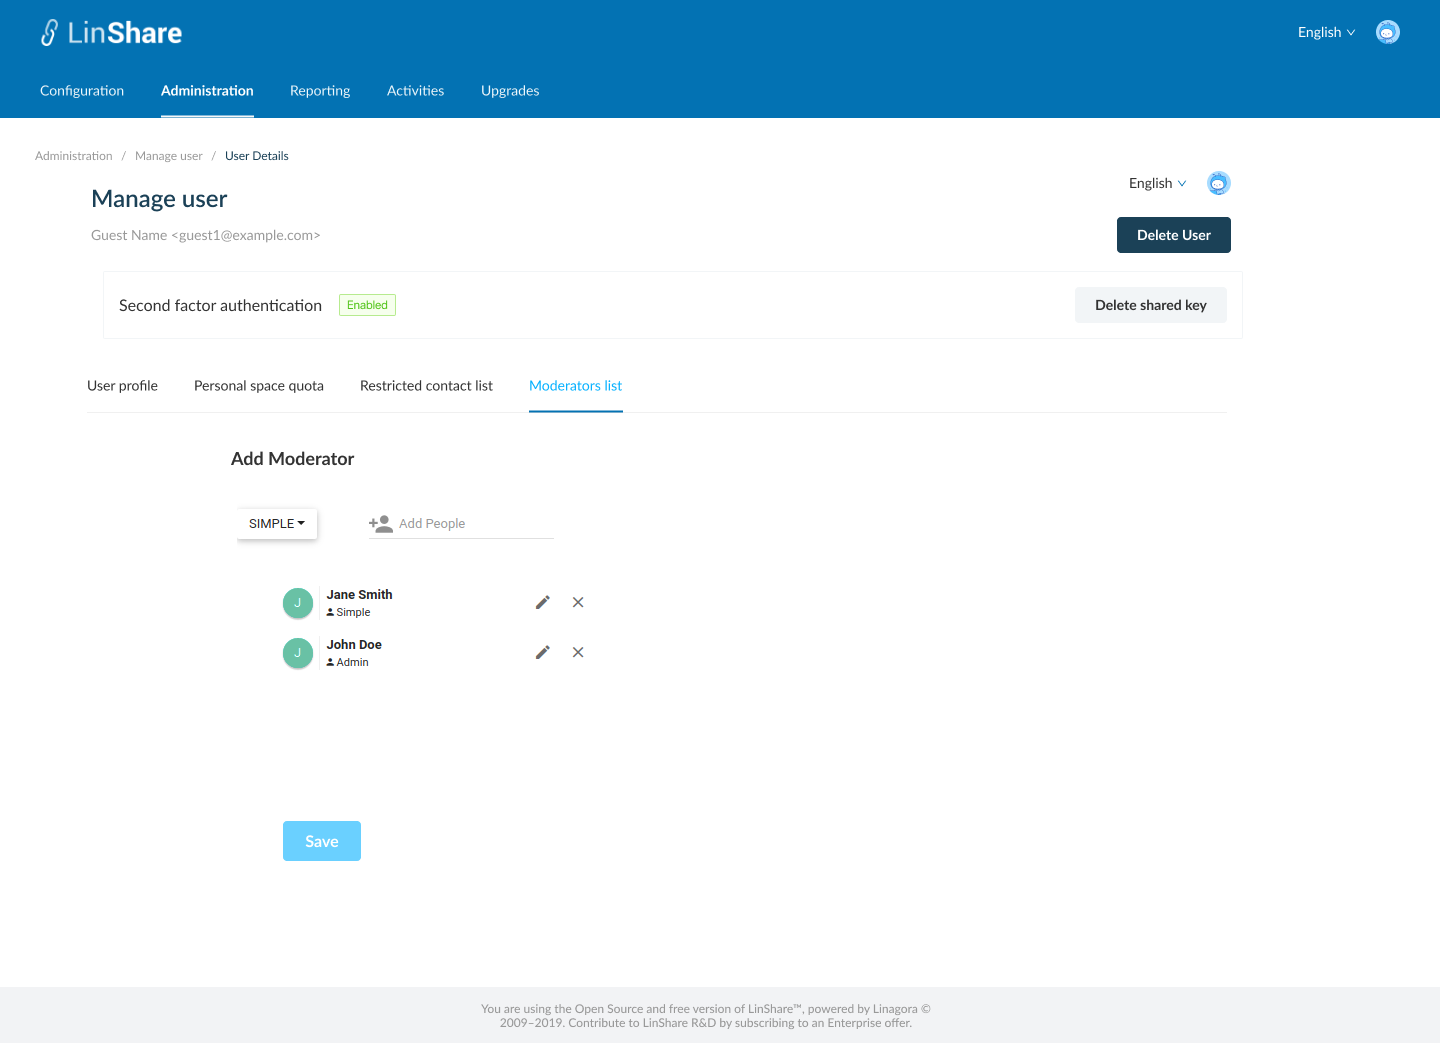
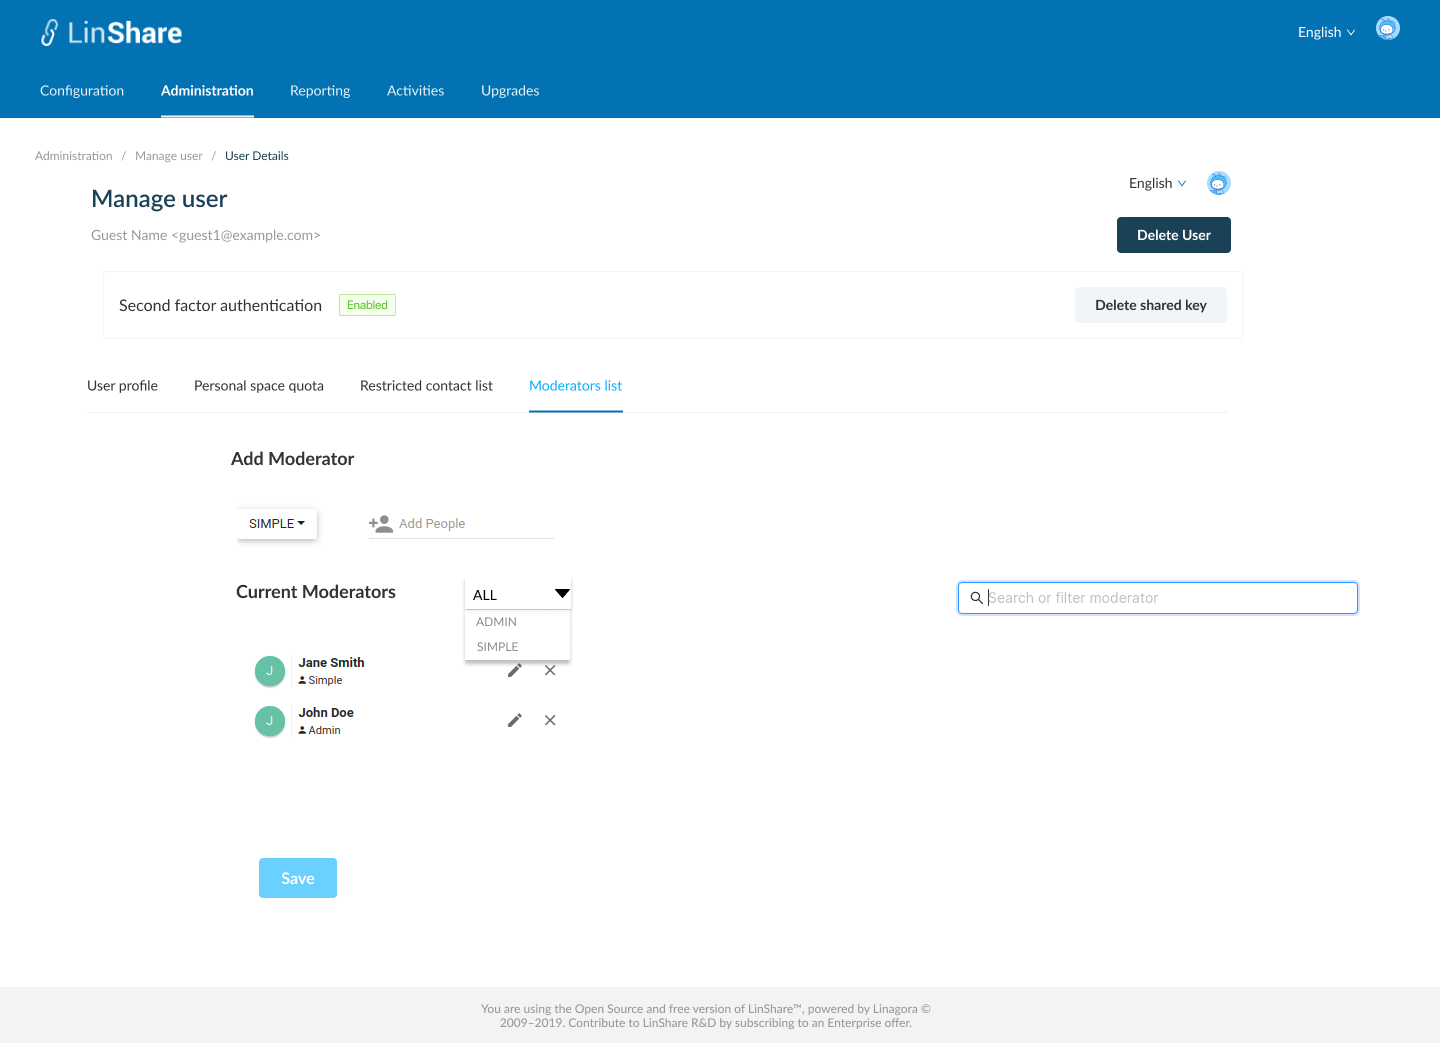
Update story 480 admin can search and filter moderators by role

diff --git a/documentation/EN/epics/Guests/story-480-admin-can-manage-moderator-list-of a-guest.md b/documentation/EN/epics/Guests/story-480-admin-can-manage-moderator-list-of a-guest.md
@@ -25,6 +25,10 @@
    - Restricted contact list
    - Moderator list 
 - In Moderators list tab, I can see the current Moderators list of that guest
+- On moderator list, I can see a filter "Role" with the default option is "All"
+- When I click on this filter, there wil be a drop-down list with options: All/Simple/Admin
+- If I select one role and click enter, the system will display the moderators with selected role
+- I can type in search bar to search moderators by email/first name/ Last name.
 
 **UC1. Add a Moderator**
 
